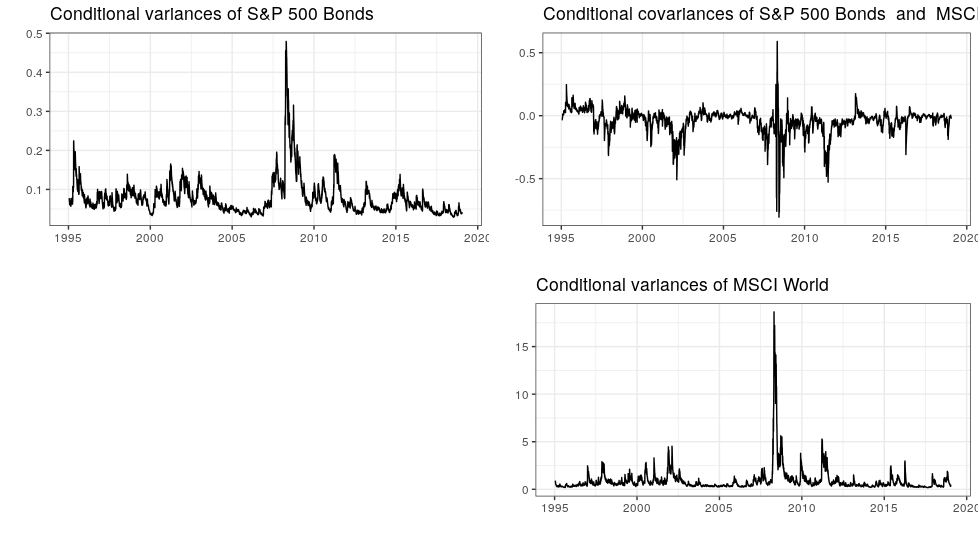
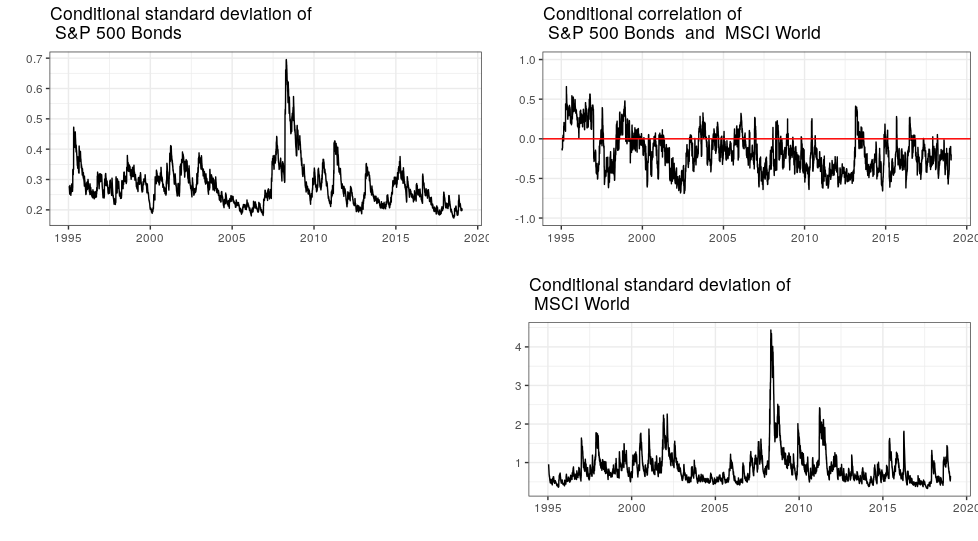
readme update

diff --git a/README.md b/README.md
@@ -42,50 +42,50 @@ autoplot(StocksBonds  , facet = TRUE) + theme_bw()
 
 ![](man/figures/Data.png)
 
-We estimate the conditional variance and covariance processes via the BEKK(1,1) model
+We estimate the conditional deviations and correlation processes via the BEKK(1,1) model
 
 ```r
 m1 <- bekk(StocksBonds)
 summary(m1)
 
-# BEKK estiamtion results
+# BEKK estimation results
 # -----------------------
-# Log-likelihood: -7407.91
+# Log-likelihood: -7382.256
 # BEKK model stationary: TRUE
-# Number of BHHH iterations: 50
+# Number of BHHH iterations: 15
 # Estimated paramater matrices: 
 # 
 # C 
-#            [,1]         [,2]
-# [1,] 0.02781423 0.0006233005
-# [2,] 0.00000000 0.1181025776
+#            [,1]        [,2]
+# [1,] 0.01978368 -0.01496272
+# [2,] 0.00000000  0.08526574
 # 
 # A 
-#              [,1]       [,2]
-# [1,]  0.186828249 0.02482309
-# [2,] -0.009778605 0.28638092
+#              [,1]        [,2]
+# [1,]  0.178859630 -0.03715201
+# [2,] -0.007691659  0.29814734
 # 
 # G 
-#             [,1]          [,2]
-# [1,] 0.976841591 -0.0007262051
-# [2,] 0.001180173  0.9493469743
+#             [,1]       [,2]
+# [1,] 0.981184605 0.01326038
+# [2,] 0.001337367 0.95143161
 # 
 # t-values of paramater matrices: 
 # 
 # C 
-#          [,1]        [,2]
-# [1,] 11.35226  0.04609706
-# [2,]  0.00000 19.02970255
+#          [,1]     [,2]
+# [1,] 8.979949 -1.21244
+# [2,] 0.000000 13.41001
 # 
 # A 
-#          [,1]       [,2]
-# [1,] 26.25035  0.9269617
-# [2,] -4.01463 37.3502093
+#          [,1]      [,2]
+# [1,] 29.17318 -1.640942
+# [2,] -3.55672 42.056807
 # 
 # G 
-#            [,1]         [,2]
-# [1,] 497.842578  -0.08394647
-# [2,]   1.539511 343.88192299
+#            [,1]       [,2]
+# [1,] 693.873974   2.099117
+# [2,]   2.154099 409.769546
 ```
 
 The summary includes general information on the estimation (see `?bekk`), the estimated parameter matrices C, A and G and the corresponding t-values. The estimated volatility and covariance processes can be shown with `plot(m1)`.
